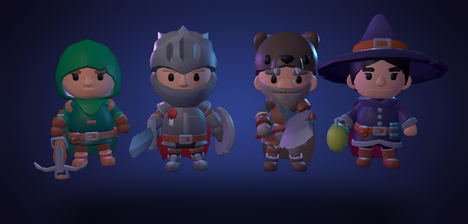
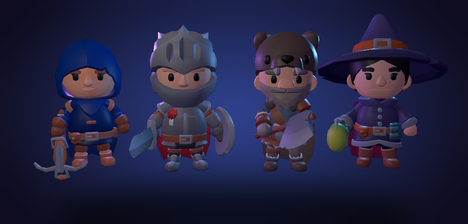
Version 60: the audit's fix-now list
- First run is saved after the boss and plays like a normal run from floor 2
- Back on the death/victory screens goes to the title; TITLE button there
- Floor 5 free end keeps the run, so a later Pass purchase can continue it
- Pass screen: 10 s timeout and clear messages when Google Play fails
- Test APK gets its own package id (…myapp.test) so it can't clash with Play
- One tutorial retry before the tutorial counts as done
- DASH uses the last stick direction for a short moment after letting go
- Screen shake (Full/Reduced/Off) and Vibration settings in Pause
- Bone Harvest healing capped per room
- Store short description, feature graphic and Pass tile with the blue Rogue
- COPY REPORT button; privacy policy lists the network-state permission
- Pause menu fits 16:9 phones

Claude-Session: https://claude.ai/code/session_011dCkZfSyMufLvisEdWMgRS

Changed region(s): [[0.1197, 0.1562, 0.2692, 0.7188]]

diff --git a/README.md b/README.md
@@ -10,7 +10,7 @@ and face the Skeleton King at the end of the floor.
 
 - **One floor:** 5 rooms (2 easy, 2 medium, 1 hard, picked at random from 36 hand-made rooms) plus a boss room. From floor 2 a room may take its right-hand side from another room (every room is drawn symmetric, so the result is lopsided and new), and from floor 3 the far half of one room may be joined to the near half of another. Floor 1 never has more than one skeleton mage in a wave.
 - **Four heroes:** the Rogue (crossbow), plus the Knight (armoured sword waves), Barbarian (thrown axes, heals on kills) and Mage (exploding orbs), unlocked with coins from the HEROES screen. It shows one hero at a time turning on a pedestal (drag to spin them), with bars for health, damage, attack speed and speed, their special, and the three blessings only they can find.
-- **Controls:** one-thumb floating joystick, auto-aim and auto-fire when standing still, a quick flick of the thumb or the DASH button (bottom right) to dash (untouchable while dashing), brief invulnerability after a hit.
+- **Controls:** one-thumb floating joystick, auto-aim and auto-fire when standing still, a quick flick of the thumb or the DASH button (bottom right) to dash (untouchable while dashing; the button dashes the way the stick pointed in the last half second, so one thumb can let go and tap it), brief invulnerability after a hit. Android Back pauses a run, goes to the title from the death and victory screens (a won run stays saved for CONTINUE), and leaves the game from the title.
 - **Four skeletons.** The dangerous ones show a red warning before they attack:
   - *Minion*: rushes you in packs.
   - *Warrior*: shows a red strip, then lunges along it.
@@ -22,13 +22,13 @@ and face the Skeleton King at the end of the floor.
 - **Endless descent:** beat the king and carry your blessings down to the next floor, where skeletons get about 55% more health and 35% more damage per floor, and bosses even more. Descending heals 30%.
 - **Endless loops (Crypt Pass):** below floor 5 the crypt comes round again in loops of five floors, each one darker and redder. After each loop's last boss you choose: BANK AND LEAVE (the run ends and pays its coins again, plus 25% more for each Omen) or DESCEND DEEPER, which first has you pick one of three **Omens** (faster, tougher or harder-hitting skeletons, bigger waves, more golden elites, weaker hearts, or a faster-draining Bone Chain). Omens stack and each adds +25% score. Between loops you get full health and 2 more rerolls, and the run saves on the end-of-loop screen so CONTINUE comes back to that choice. See [scripts/loops.gd](scripts/loops.gd).
 - **Coins and the Armory:** skeletons drop gold you keep between runs. Spend it on permanent upgrades (health, damage, attack speed, move speed, luckier hearts, a free blessing each run, and a once-per-run Second Wind). The Armory's **VAULT** tab sells six new blessings (2,850 coins in all): Soul Siphon, Frozen Ground, Executioner, Flashfire, Bone Splinters and Overcharge. Once bought, they can turn up in every run's blessing picks.
-- **Music:** seven orchestral CC0 tracks from OpenGameArt, two for each floor theme (played one after the other) and a boss theme, credited in [audio/music/CREDITS.md](audio/music/CREDITS.md) and fetched by the Fetch CC0 music workflow. Music, Sounds and Graphics (High/Low) switches in the pause menu. Low graphics turns off shadows and glow, and keeps only 2 of the 6 torch lights for smoother play on older phones. Until a player picks a setting, the game switches itself to Low if it runs under 45 frames a second for 8 seconds (robot check: `slowphone`). The pause menu also shows the build, so testers can say which one they played.
-- **Run report:** the end screen has a COPY RUN REPORT button. It copies the hero, damage taken from each enemy, blessings, room times and frame rate, to paste to Claude for balancing.
+- **Music:** seven orchestral CC0 tracks from OpenGameArt, two for each floor theme (played one after the other) and a boss theme, credited in [audio/music/CREDITS.md](audio/music/CREDITS.md) and fetched by the Fetch CC0 music workflow. Music, Sounds, Graphics (High/Low), Screen shake (Full/Reduced/Off) and Vibration switches in the pause menu. Low graphics turns off shadows and glow, and keeps only 2 of the 6 torch lights for smoother play on older phones. Until a player picks a setting, the game switches itself to Low if it runs under 45 frames a second for 8 seconds (robot check: `slowphone`). The pause menu also shows the build, so testers can say which one they played.
+- **Run report:** for players who send reports, the end screen has a COPY REPORT button. It copies the hero, damage taken from each enemy, blessings, room times and frame rate, to paste to Claude for balancing.
 - **Grave Dash:** dash through a red enemy shot just before it hits for a PERFECT dodge: time slows, nearby shots shatter, the dash recharges and your hero fires a ring of 8 bolts back. Until you've landed 3 perfect dodges, the game slows down right before a shot hits and shows "DASH THROUGH IT!" (twice per run at most). Dash across a spike trap while it's armed and it fires on the skeletons around it instead.
 - **Bone Chain:** kills close together build a multiplier (+0.1 per kill, +0.3 for elites, up to x3). It boosts coins and damage by +25% per full x1 (Marrow lets it climb to x4), and drains away 2.5 s after your last kill.
   The spine across the top lights one vertebra per +0.5 (bone-white, then gold, then red-hot), and shatters when the chain breaks.
 - **Score:** every kill is worth points (10, elites 30, the boss 500) times the full chain. Specials also hit with the full chain, and a perfect dodge adds +0.5 and resets the timer. The best score is saved.
-- **First run:** each room teaches one thing: move and shoot, then dash, then the Bone Chain, then the special (which starts full), then a synergy card, then the boss. Heroes and the Armory open once the first run ends. "Tutorial run" in MODES replays it.
+- **First run:** each room teaches one thing: move and shoot, then dash, then the Bone Chain, then the special (which starts full), then a synergy card, then the boss. A new player who dies in it gets it once more from room 1; a second death (or beating its boss) ends it, and Heroes and the Armory open. The first run is saved like any other once its boss falls. "Tutorial run" in MODES replays it.
 - **Title screen:** PLAY, then HEROES and ARMORY, then MODES (the Daily Crypt, Curses and the tutorial run, with a DAILY READY tag when today's Daily Crypt is waiting) and the CRYPT PASS.
 - **Special moves:** kills fill a ring on the star button (bottom right). When it's full, tap it: the Rogue fires three rings of bolts (Shadow Volley), the Knight stuns everything nearby (Shield Slam), the Barbarian spins and heals (Whirlwind), and the Mage drops five meteors (Meteor). Perfect dodges and elites charge it faster. Press E on a keyboard.
 - **Floor themes:** each floor has its own look and its own props: the Bone Crypt (floor 1, skull piles and candles), the Frozen Ossuary (floor 2, blue torches, falling frost, icicles and ice crystals) and the Ember Catacomb (floor 3, charcoal slabs with fire glowing in the cracks, braziers and lava grates in the walls), then round again. See [scripts/floors.gd](scripts/floors.gd) and [scripts/props.gd](scripts/props.gd).
@@ -38,7 +38,7 @@ and face the Skeleton King at the end of the floor.
 - **Readable danger:** the camera sits close and follows the hero, red arrows on the screen edge point at enemies and warnings just off-screen, every enemy shot is hot pink-red with a dark ring and a pulse, and your own shots are small and see-through.
 - **Healing hearts** (12 health) that skeletons sometimes drop and a beginner hint in room 1.
 - **Game feel:** slow-motion close-up on the last kill of each room, a boss entrance with a title card, drifting embers, hit-stop, screen shake, hit flashes, knockback, damage numbers, particles, and real sound effects plus an announcer voice from Kenney's CC0 packs (fetched by the Fetch Kenney audio workflow into audio/sfx).
-- **Crypt Pass ($4.99, one purchase through Google Play):** the free game ends after the floor 5 boss with an offer screen, and the title screen says "Free to try: floors 1-5". The Pass opens endless loops with Omens, **Daily Crypt** practice runs and **Curses**, and unlocks every hero. The game checks with Google Play again whenever it comes back to the front.
+- **Crypt Pass ($4.99, one purchase through Google Play):** the free game ends after the floor 5 boss with an offer screen, and the title screen says "Free to try: floors 1-5". The run is kept there: CONTINUE ("Floor 5 cleared") brings the offer back, and once the Pass is owned (even after a pending payment) the run carries on to floor 6. The Pass opens endless loops with Omens, **Daily Crypt** practice runs and **Curses**, and unlocks every hero. The game checks with Google Play again whenever it comes back to the front.
   - **Daily Crypt:** 3 floors with the same rooms, hero and three rules for everyone (one that helps, one curse, one trade-off), a theme for each weekday, one Official run a day plus Practice runs, and a result card to share: the result first, one square per room coloured by how high the Bone Chain climbed (a skull for each boss beaten, a cross where you fell), your days-in-a-row streak and the Google Play link. SHARE RESULT opens the phone's share menu with the card as a picture and the result as text (the text is copied too). It turns over at 07:00 UTC. Everyone gets the day's Official run free; Practice runs after it come with the Crypt Pass.
   - **Curses:** 10 curses, each with a level; switched-on curses add up to a Curse Level (+15% score per level, up to 17). Beating the floor 5 boss at a Curse Level earns that hero titles and looks (red lantern, red aura, gold bolts). Restless Dead is free for everyone.
   - **Free tastes:** each locked hero can be played once for free, and free players hear about the Pass once a session after reaching floor 3.

diff --git a/PRIVACY.md b/PRIVACY.md
@@ -12,7 +12,7 @@ Bone Chain has no accounts and no ads, and it never collects your name, email, c
 
 If you have turned reports on, then when a run ends, when the game hits an error, or when it didn't close properly last time, the game sends a short text report containing:
 
-- **The run summary:** hero, floor and room reached, time, score, kills, coins, damage taken and what dealt it, blessings and Armory upgrades, and frame rate. This is the same text as the **COPY RUN REPORT** button.
+- **The run summary:** hero, floor and room reached, time, score, kills, coins, damage taken and what dealt it, blessings and Armory upgrades, and frame rate. This is the same text as the **COPY REPORT** button.
 - **Error and crash details:** the error message, where in the game it happened, and the last lines of the game's own log.
 - **A random install number** made on your phone the first time you play. It is not linked to you, your Google account or your phone's advertising ID, and it changes if you reinstall.
 - **Technical details:** the game version, phone model, Android version and graphics chip name.
@@ -32,14 +32,15 @@ The game saves your progress (coins, unlocked heroes, Armory upgrades, best floo
 ## Permissions
 
 - **Internet:** only to send the anonymous game reports described above, and only if you've turned them on.
-- **Vibrate:** the phone buzzes briefly when your hero is hit.
+- **Vibrate:** the phone buzzes briefly when your hero is hit (switch it off under Pause, Vibration).
 - **Google Play billing:** only to buy the Crypt Pass through Google Play.
+- **Network state:** added by Google Play billing, to check whether the phone is online before talking to Google Play. It can't see what you do online.
 
 The game asks for no other permissions. It cannot see your contacts, photos, location, microphone or camera.
 
 ## Deleting reports
 
-Because reports are anonymous, the developer can't tell which ones are yours unless you share your install number. To have your reports deleted, email the developer (address on the Google Play page) with the install number, which is shown at the top of every report you copy with **COPY RUN REPORT**.
+Because reports are anonymous, the developer can't tell which ones are yours unless you share your install number. To have your reports deleted, email the developer (address on the Google Play page) with the install number, which is shown at the top of every report you copy with **COPY REPORT** (on the end screen when reports are on).
 
 ## Children
 

diff --git a/store/listing.md b/store/listing.md
@@ -6,7 +6,7 @@ Bone Chain: Dungeon Roguelite
 
 ## Short description (80 characters max)
 
-Free to try: floors 1-5. Dash, chain kills and fight down a skeleton crypt.
+One-thumb dungeon roguelite: dash through shots, chain kills, break the crypt.
 
 ## Full description (4000 characters max)
 
